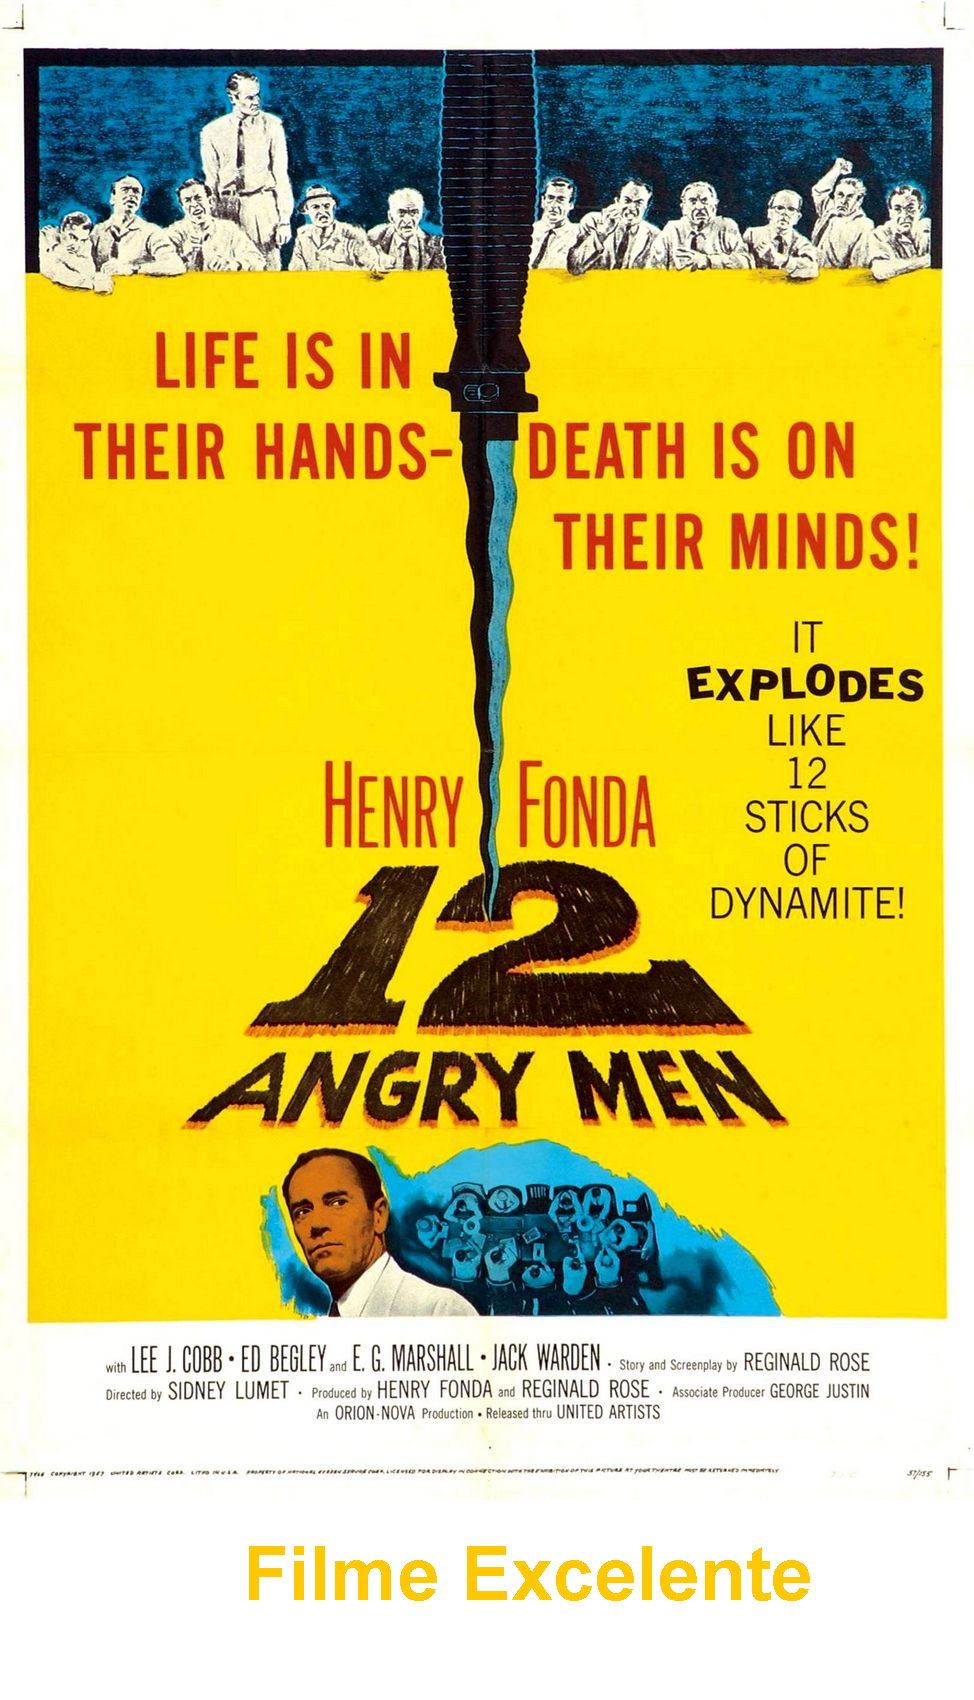
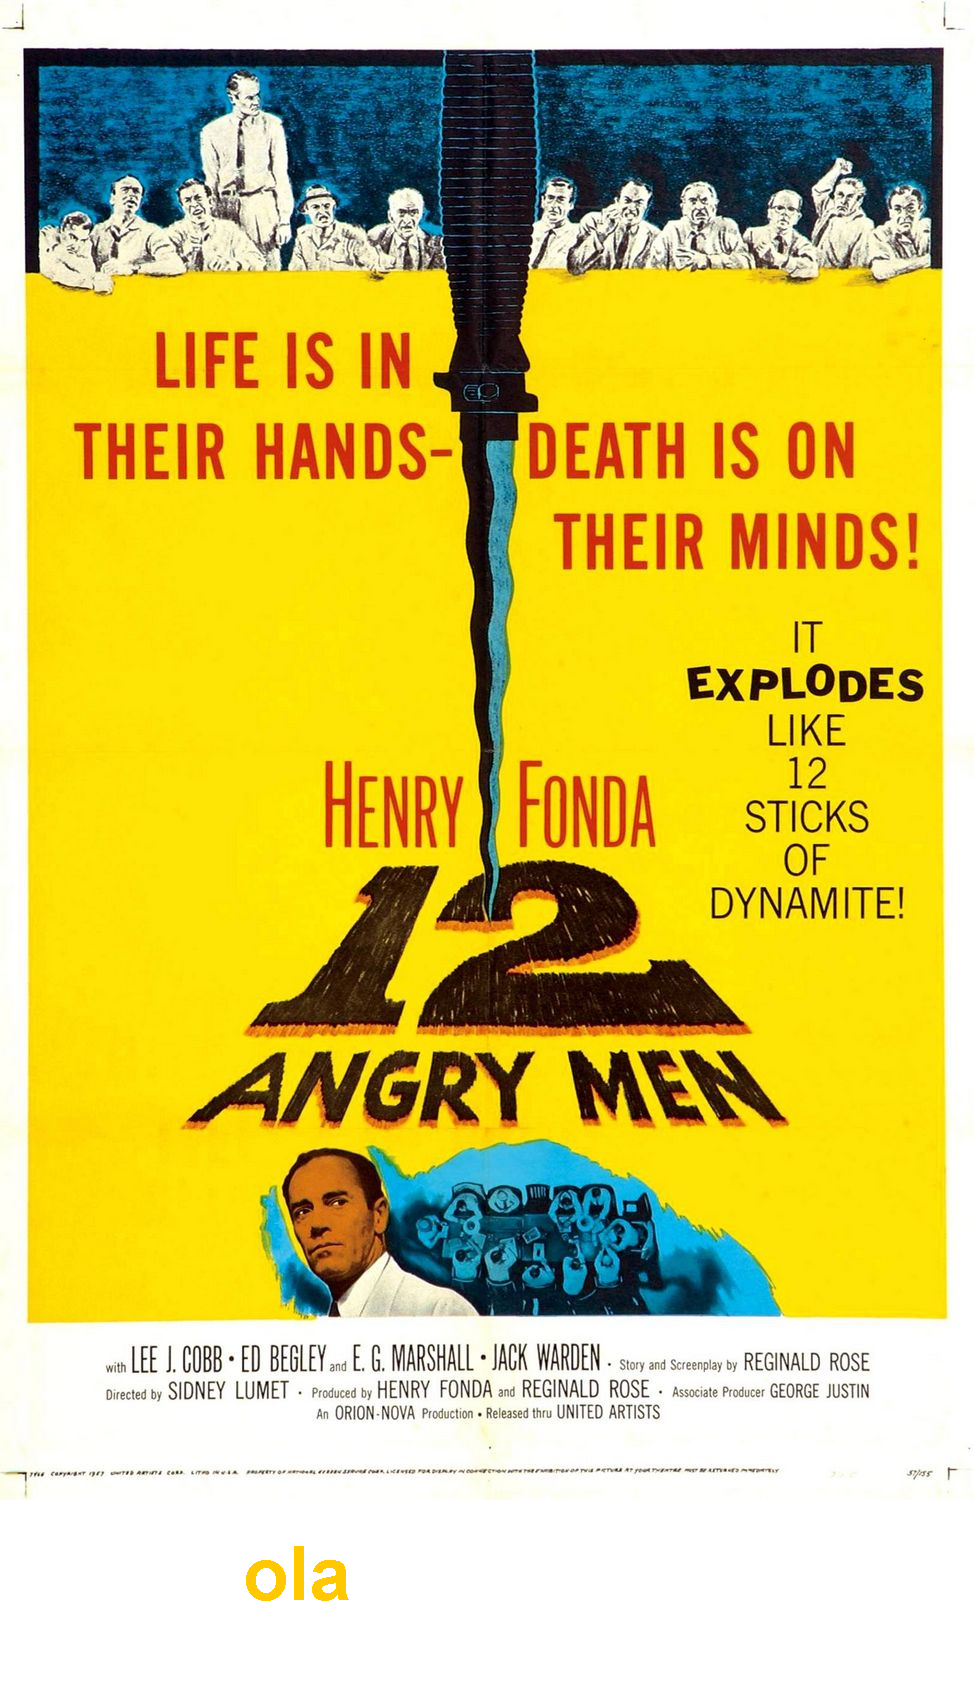
Criado novas classes e feito a refatoração do código.

Changed region(s): [[0.2464, 0.9041, 0.8316, 0.9665]]

diff --git a/Stickers/src/App.java b/Stickers/src/App.java
@@ -1,61 +1,29 @@
 import java.io.InputStream;
-import java.net.URI;
 import java.net.URL;
-import java.net.http.HttpClient;
-import java.net.http.HttpRequest;
-import java.net.http.HttpResponse;
-import java.net.http.HttpResponse.BodyHandlers;
 import java.util.List;
-import java.util.Map;
 
 public class App {
     public static void main(String[] args) throws Exception {
 
         // Abrindo conexao HTTP e buscando os TOP10.
         String url = "https://raw.githubusercontent.com/alura-cursos/imersao-java-2-api/main/TopMovies.json";
-        URI endereco = URI.create(url);
-        HttpClient client = HttpClient.newHttpClient();
-        HttpRequest request = HttpRequest.newBuilder(endereco).GET().build();
-        HttpResponse<String> response = client.send(request, BodyHandlers.ofString());
-        String body = response.body();
+        var http = new ClienteHttp();
+        String json = http.buscaDados(url);
 
-        // Extraindo dados (titulo, poster, classificacao).
-        JsonParser parser = new JsonParser();
-        List<Map<String, String>> listaDeFilmes = parser.parse(body);
+        // Exibindo e manipulando os dados.;
+        ExtratorDeConteudo extrator = new ExtratorConteudoIMDB();
+        List<Conteudo> conteudos = extrator.extraiConteudo(json);
 
-        // Exibindo e manipulando os dados.
-        for (Map<String, String> filme : listaDeFilmes) {
+        for (int i = 0; i < conteudos.size(); i++) {
 
-            String titulo = filme.get("title");
-            String urlImagem = filme.get("image");
-            double nota = Double.parseDouble(filme.get("imDbRating"));
-            double classificacao = (double) Math.round(nota / 2.0);
-
-            System.out.println("Titulo: " + titulo);
-            System.out.print("Avaliação: " + filme.get("imDbRating") + " - ");
-
-            for (int i = 0; i < 5; i++) {
-                if(i < classificacao) {
-                    System.out.print("⭐");
-                } 
-            }
-            System.out.println("\n");
-
-            String comentario = "";
-            if (nota >= 8.1 && nota <= 10) {
-                comentario = "Filme Excelente";
-            } else if (nota >= 6 && nota <= 8 ) {
-                comentario = "Filme Mediano";
-            } else {
-                comentario = "Da pro gasto";
-            }
-
-            InputStream inputStream = new URL(urlImagem).openStream();
-            String nomeArquivo = titulo + ".png";
+            Conteudo conteudo = conteudos.get(i);
 
             var geradora = new GeradorFigurinhas();
-            geradora.cria(inputStream, nomeArquivo, comentario);
-            
-        }
+            InputStream inputStream = new URL(conteudo.getUrlImagem()).openStream();
+            String nomeArquivo = conteudo.getTitulo() + ".png";
+            geradora.cria(inputStream, nomeArquivo, "BORA BILL");
+
+            System.out.println(conteudo.getTitulo());
+        }  
     }
 }

diff --git a/Stickers/src/ExtratorConteudoIMDB.java b/Stickers/src/ExtratorConteudoIMDB.java
@@ -1,0 +1,27 @@
+import java.util.ArrayList;
+import java.util.List;
+import java.util.Map;
+
+public class ExtratorConteudoIMDB implements ExtratorDeConteudo{
+
+    public List<Conteudo> extraiConteudo (String json) {
+        var parser = new JsonParser();
+        List<Map<String, String>> listaAtributos = parser.parse(json);
+        
+        List<Conteudo> conteudos = new ArrayList<>();
+
+        //Populando a lista de conteudos
+        for (Map<String, String> atributos : listaAtributos) {
+            String titulo = atributos.get("title");
+            String urlImagem = atributos.get("image");
+            var conteudo = new Conteudo(titulo, urlImagem);
+            conteudos.add(conteudo);
+        }
+        return conteudos; 
+    }
+}    
+
+
+    
+
+        

diff --git a/Stickers/src/ExtratorConteudoNasa.java b/Stickers/src/ExtratorConteudoNasa.java
@@ -1,0 +1,23 @@
+import java.util.ArrayList;
+import java.util.List;
+import java.util.Map;
+
+public class ExtratorConteudoNasa implements ExtratorDeConteudo{
+
+    public List<Conteudo> extraiConteudo (String json) {
+        var parser = new JsonParser();
+        List<Map<String, String>> listaAtributos = parser.parse(json);
+        
+        List<Conteudo> conteudos = new ArrayList<>();
+
+        //Populando a lista de conteudos
+        for (Map<String, String> atributos : listaAtributos) {
+            String titulo = atributos.get("title");
+            String urlImagem = atributos.get("url");
+            var conteudo = new Conteudo(titulo, urlImagem);
+
+            conteudos.add(conteudo);
+        }
+        return conteudos; 
+    }
+}

diff --git a/Stickers/src/ClienteHttp.java b/Stickers/src/ClienteHttp.java
@@ -1,0 +1,25 @@
+import java.io.IOException;
+import java.net.URI;
+import java.net.http.HttpClient;
+import java.net.http.HttpRequest;
+import java.net.http.HttpResponse;
+import java.net.http.HttpResponse.BodyHandlers;
+
+public class ClienteHttp {
+
+
+public String buscaDados (String url) {
+
+    try {
+        URI endereco = URI.create(url);
+        HttpClient client = HttpClient.newHttpClient();
+        HttpRequest request = HttpRequest.newBuilder(endereco).GET().build();
+        HttpResponse<String> response = client.send(request, BodyHandlers.ofString());
+        String body = response.body();
+        return body;
+    } catch (IOException | InterruptedException ex){
+        throw new RuntimeException(ex);
+    }
+   
+}
+}

diff --git a/Stickers/src/Conteudo.java b/Stickers/src/Conteudo.java
@@ -1,0 +1,27 @@
+public class Conteudo {
+
+    private String titulo;
+    private String urlImagem;
+
+    public Conteudo (String t, String urlImagem) {
+        this.setTitulo(t);
+        this.setUrlImagem(urlImagem);
+    }
+    
+    public void setTitulo(String titulo) {
+        this.titulo = titulo;
+    }
+    public void setUrlImagem(String urlImagem) {
+        this.urlImagem = urlImagem;
+    }
+    public String getTitulo() {
+        return titulo;
+    }
+    public String getUrlImagem() {
+        return urlImagem;
+    }
+
+    
+}
+
+

diff --git a/Stickers/src/ExtratorDeConteudo.java b/Stickers/src/ExtratorDeConteudo.java
@@ -1,0 +1,6 @@
+import java.util.List;
+
+public interface ExtratorDeConteudo {
+    
+    public List<Conteudo> extraiConteudo (String json);
+}
